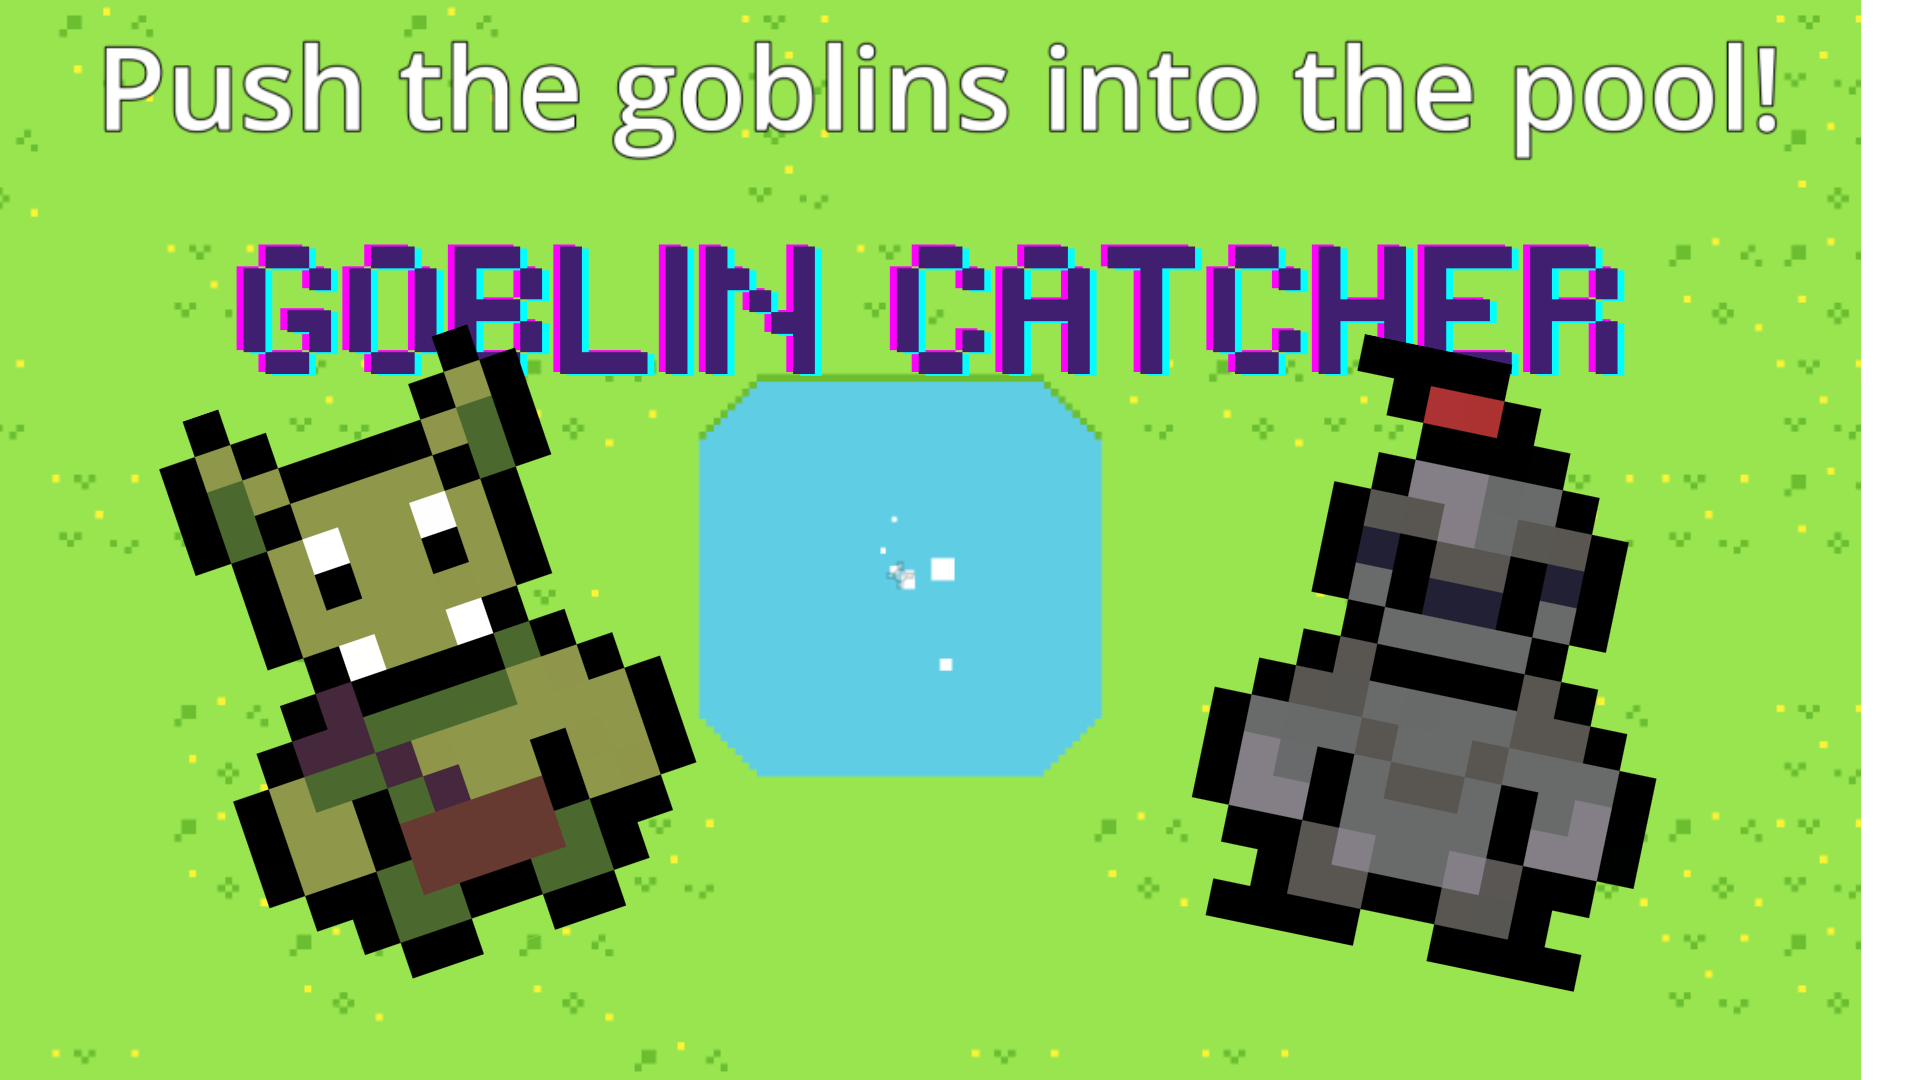
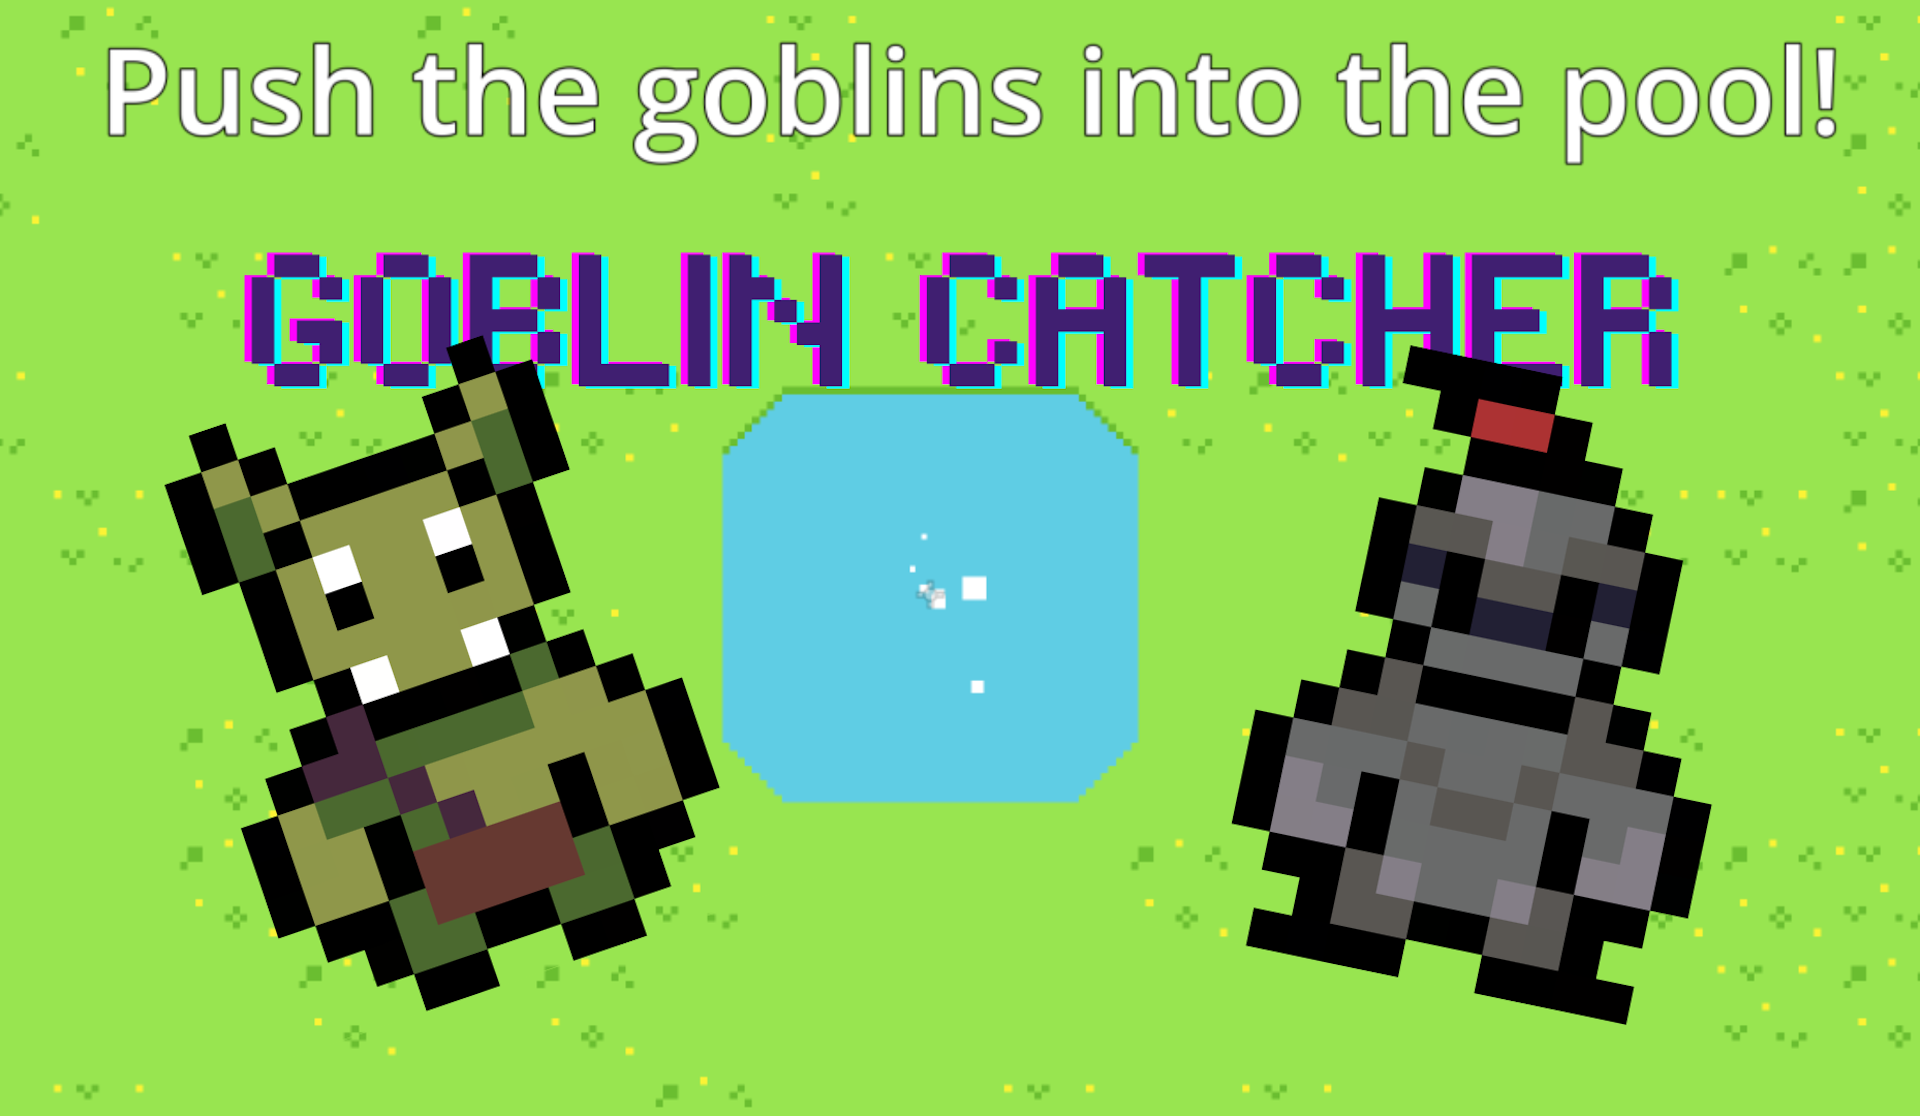
Improve quality of goblin catcher assets

diff --git a/collections/_games/goblin-catcher.md b/collections/_games/goblin-catcher.md
@@ -57,7 +57,7 @@ This is a fantasy spin on Thief Catcher, the first project for my **GSD 511: Gam
 - Added UI for the amount of goblins left
 
 ## Asset Attribution
-All of the current art was made by me using Aseprite. Credits for placeholder art and sound effects are listed below:
+All of the current art was made by me using Aseprite. The cover image was made in Canva using my sprites. Credits for placeholder art and sound effects are listed below:
 
 - Goblin capture sound: [Little Creature Hurt Sound](https://pixabay.com/sound-effects/film-special-effects-little-creature-hurt-sound-295405/) by Homemade_SDX on pixabay.com
 - All art for v1.0 from [Sunnyside World](https://danieldiggle.itch.io/sunnyside) by DanielDiggle on itch.io
